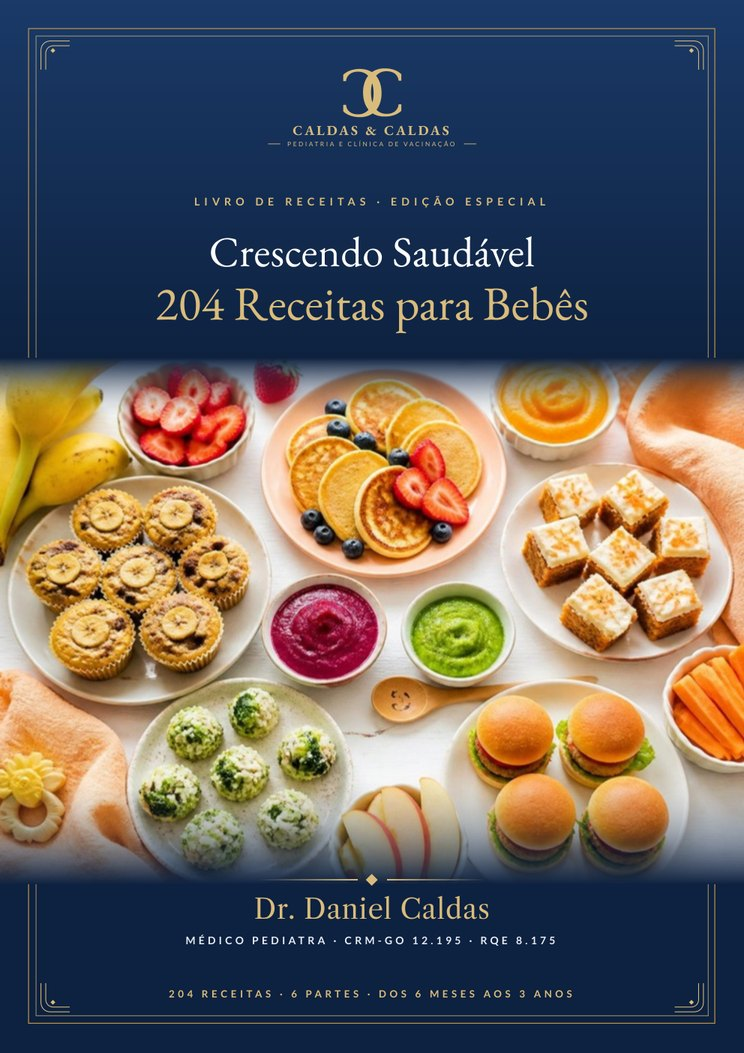
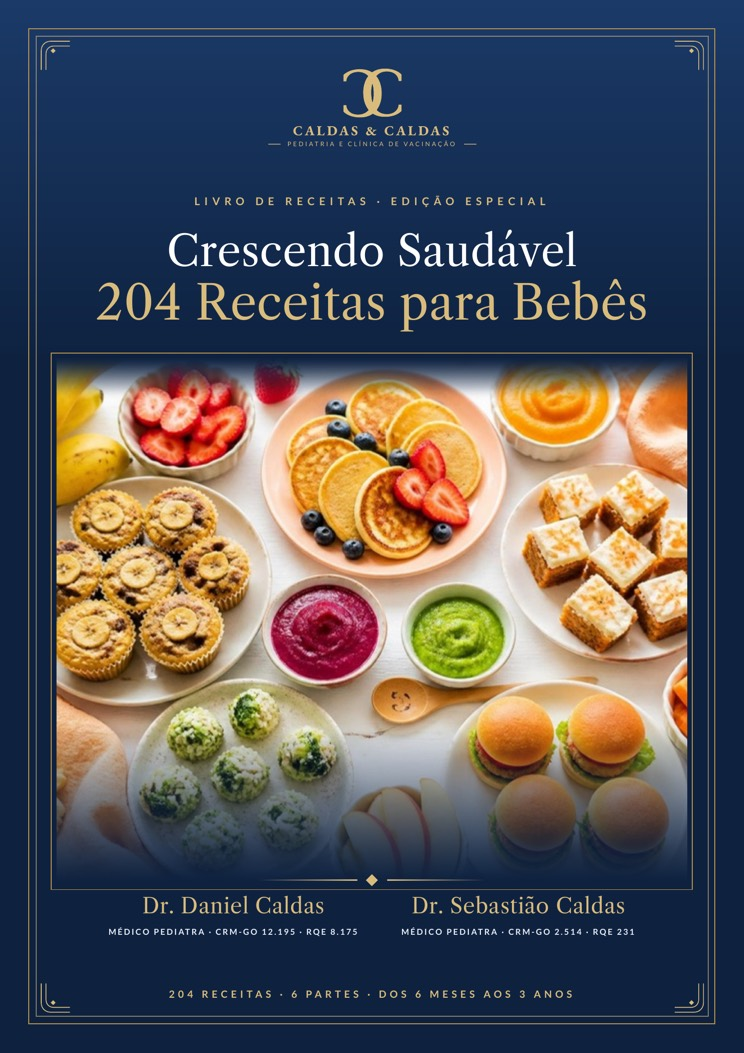
Atualiza pagina de vendas: foto dos medicos, carrossel e novas capas
- Adiciona a foto dos Drs. Caldas na secao "No consultorio" (img/drs-caldas-consultorio.webp)
- Exibe os materiais em carrossel no celular
- Troca as 7 capas pelas versoes com os dois autores e atualiza o cache para ?v=lx3

diff --git a/index.html b/index.html
@@ -77,6 +77,11 @@ section{padding:88px 0;position:relative}
 .balao li:first-child{border-top:1px solid var(--linha)}
 .perguntas p{color:var(--suave);margin-bottom:14px}
 .perguntas p b{color:var(--tx)}
+.foto-consultorio{margin:40px 9px 0;max-width:440px}
+.foto-consultorio .moldura{aspect-ratio:1/1;background:var(--nv);overflow:hidden;border:1px solid var(--ou2);outline:1px solid #E1D2B0;outline-offset:8px}
+.foto-consultorio img{display:block;width:100%;height:100%;object-fit:cover;object-position:50% 35%}
+.foto-consultorio figcaption{margin-top:20px;font-size:13px;line-height:1.4;color:var(--suave)}
+.foto-consultorio figcaption b{color:var(--nv);font-weight:700}
 
 /* kit */
 .grid-kit{display:flex;flex-wrap:wrap;gap:34px 26px}
@@ -152,6 +157,8 @@ footer p{margin:0;line-height:1.5}
   section{padding:64px 0}
   .hero{padding:52px 0 70px}
   .perguntas .wrap,.sobre .wrap{grid-template-columns:1fr;gap:36px}
+  .foto-consultorio{margin:28px 9px 0;max-width:420px}
+  .foto-consultorio .moldura{aspect-ratio:4/3}
   .grid-kit .item{width:calc(33.33% - 18px)}
   .autores{max-width:440px;width:100%;margin:0 auto}
   .topo .btn-mini{display:none}
@@ -177,6 +184,29 @@ footer p{margin:0;line-height:1.5}
   .medico{padding:5px 5px 12px}
   .medico b{font-size:14.5px}
   .medico small{font-size:11.5px}
+}
+/* kit: carrossel no celular (abaixo de 768px); no desktop/tablet a grade fica igual */
+.kit-nav{display:none}
+@media (max-width:767px){
+  .kit{--gut:20px}
+  .grid-kit{position:relative;flex-wrap:nowrap;gap:16px;overflow-x:auto;overscroll-behavior-x:contain;scroll-snap-type:x mandatory;scroll-padding:0 var(--gut);margin:0 calc(-1 * var(--gut));padding:4px var(--gut) 34px;scrollbar-width:none;-webkit-overflow-scrolling:touch;scroll-behavior:smooth}
+  .grid-kit::-webkit-scrollbar{display:none}
+  .grid-kit:focus-visible{outline:2px solid var(--ou);outline-offset:-2px}
+  .grid-kit .item{flex:0 0 82%;width:auto;max-width:330px;scroll-snap-align:start}
+  .item h3{font-size:18px}
+  .kit-nav:not([hidden]){display:flex;align-items:center;justify-content:center;gap:10px;margin-top:-10px}
+  .kit-dots{display:flex;align-items:center}
+  .kit-dots button{width:22px;height:32px;padding:0;border:0;background:none;cursor:pointer;display:flex;align-items:center;justify-content:center}
+  .kit-dots button:before{content:"";display:block;width:8px;height:8px;border-radius:50%;background:#D5DAE3;transition:background .2s,transform .2s}
+  .kit-dots button[aria-current="true"]:before{background:var(--ou);transform:scale(1.35)}
+  .kit-seta{width:34px;height:34px;border-radius:50%;border:1px solid #E1D2B0;background:#fff;color:var(--nv);font-size:22px;line-height:1;padding:0 0 3px;cursor:pointer;display:flex;align-items:center;justify-content:center}
+  .kit-seta:disabled{opacity:.35;cursor:default}
+  .kit-dots button:focus-visible,.kit-seta:focus-visible{outline:2px solid var(--ou);outline-offset:2px;border-radius:50%}
+}
+@media (max-width:560px){.kit{--gut:16px}}
+@media (prefers-reduced-motion:reduce){
+  .grid-kit{scroll-behavior:auto}
+  .kit-dots button:before{transition:none}
 }
 </style>
 </head>
@@ -400,6 +430,10 @@ c7 -18 21 -72 30 -120 9 -48 29 -126 46 -174 16 -49 39 -139 50 -201 11 -62
     <div>
       <span class="rotulo">No consultório</span>
       <h2>O que os pais mais nos perguntam quando o bebê faz 6 meses</h2>
+      <figure class="foto-consultorio">
+        <div class="moldura"><img src="img/drs-caldas-consultorio.webp" alt="Dr. Sebastião Caldas, à esquerda, e Dr. Daniel Caldas, à direita, pediatras, abraçados e sorrindo no consultório de parede azul da Caldas &amp; Caldas" width="800" height="800" loading="lazy"></div>
+        <figcaption><b>Dr. Sebastião Caldas e Dr. Daniel Caldas</b> · Pediatras</figcaption>
+      </figure>
     </div>
     <div>
       <ul class="balao">
@@ -422,14 +456,19 @@ c7 -18 21 -72 30 -120 9 -48 29 -126 46 -174 16 -49 39 -139 50 -201 11 -62
     <span class="rotulo">Junto com o livro</span>
     <h2>Receitas e guias para o dia a dia</h2>
     <p class="lead">O livro explica o porquê. Estes materiais resolvem o “o que eu faço hoje no almoço”.</p>
-    <div class="grid-kit">
-      <div class="item"><div class="capa"><img src="img/calendario.jpg?v=lx2" alt="Capa: Calendário de Receitas" loading="lazy"></div><h3>Calendário de Receitas</h3><p>O que oferecer em cada semana</p><span class="pg">111 páginas</span></div>
-      <div class="item"><div class="capa"><img src="img/receitas.jpg?v=lx2" alt="Capa: Crescendo Saudável" loading="lazy"></div><h3>Crescendo Saudável</h3><p>204 receitas para bebês de 6 meses a 3 anos</p><span class="pg">137 páginas</span></div>
-      <div class="item"><div class="capa"><img src="img/blw.jpg?v=lx2" alt="Capa: Cortes Seguros no BLW" loading="lazy"></div><h3>Cortes Seguros no BLW</h3><p>Como cortar cada alimento em cada idade</p><span class="pg">Guia</span></div>
-      <div class="item"><div class="capa"><img src="img/congela.jpg?v=lx2" alt="Capa: Congelamento Prático" loading="lazy"></div><h3>Congelamento Prático</h3><p>Prepare a semana e ganhe tempo</p><span class="pg">Guia</span></div>
-      <div class="item"><div class="capa"><img src="img/temperos.jpg?v=lx2" alt="Capa: Temperos Seguros" loading="lazy"></div><h3>Temperos Seguros</h3><p>Sabor de verdade, sem sal antes de 1 ano</p><span class="pg">Guia</span></div>
-      <div class="item"><div class="capa"><img src="img/sorvetes.jpg?v=lx2" alt="Capa: 20 Sorvetes para Bebês" loading="lazy"></div><h3>20 Sorvetes para Bebês</h3><p>Picolés de fruta sem açúcar</p><span class="pg">Receitas</span></div>
-      <div class="item"><div class="capa"><img src="img/bolinhos.jpg?v=lx2" alt="Capa: 20 Bolinhos para Bebês" loading="lazy"></div><h3>20 Bolinhos para Bebês</h3><p>Lanches práticos e saudáveis</p><span class="pg">Receitas</span></div>
+    <div class="grid-kit" id="kit-carrossel" role="region" aria-label="Materiais que acompanham o livro">
+      <div class="item"><div class="capa"><img src="img/calendario.jpg?v=lx3" alt="Capa: Calendário de Receitas" loading="lazy"></div><h3>Calendário de Receitas</h3><p>O que oferecer em cada semana</p><span class="pg">111 páginas</span></div>
+      <div class="item"><div class="capa"><img src="img/receitas.jpg?v=lx3" alt="Capa: Crescendo Saudável" loading="lazy"></div><h3>Crescendo Saudável</h3><p>204 receitas para bebês de 6 meses a 3 anos</p><span class="pg">137 páginas</span></div>
+      <div class="item"><div class="capa"><img src="img/blw.jpg?v=lx3" alt="Capa: Cortes Seguros no BLW" loading="lazy"></div><h3>Cortes Seguros no BLW</h3><p>Como cortar cada alimento em cada idade</p><span class="pg">Guia</span></div>
+      <div class="item"><div class="capa"><img src="img/congela.jpg?v=lx3" alt="Capa: Congelamento Prático" loading="lazy"></div><h3>Congelamento Prático</h3><p>Prepare a semana e ganhe tempo</p><span class="pg">Guia</span></div>
+      <div class="item"><div class="capa"><img src="img/temperos.jpg?v=lx3" alt="Capa: Temperos Seguros" loading="lazy"></div><h3>Temperos Seguros</h3><p>Sabor de verdade, sem sal antes de 1 ano</p><span class="pg">Guia</span></div>
+      <div class="item"><div class="capa"><img src="img/sorvetes.jpg?v=lx3" alt="Capa: 20 Sorvetes para Bebês" loading="lazy"></div><h3>20 Sorvetes para Bebês</h3><p>Picolés de fruta sem açúcar</p><span class="pg">Receitas</span></div>
+      <div class="item"><div class="capa"><img src="img/bolinhos.jpg?v=lx3" alt="Capa: 20 Bolinhos para Bebês" loading="lazy"></div><h3>20 Bolinhos para Bebês</h3><p>Lanches práticos e saudáveis</p><span class="pg">Receitas</span></div>
+    </div>
+    <div class="kit-nav" hidden>
+      <button type="button" class="kit-seta" data-dir="-1" aria-label="Material anterior" aria-controls="kit-carrossel">&#8249;</button>
+      <div class="kit-dots"></div>
+      <button type="button" class="kit-seta" data-dir="1" aria-label="Próximo material" aria-controls="kit-carrossel">&#8250;</button>
     </div>
   </div>
 </section>
@@ -700,6 +739,70 @@ c7 -18 21 -72 30 -120 9 -48 29 -126 46 -174 16 -49 39 -139 50 -201 11 -62
     barra.classList.toggle('oculto',vis.size>0);
   });
   alvos.forEach(function(el){if(el)io.observe(el)});
+})();
+</script>
+
+<script>
+/* carrossel dos materiais: só age abaixo de 768px */
+(function(){
+  var trilho=document.getElementById('kit-carrossel');
+  if(!trilho)return;
+  var nav=trilho.parentNode.querySelector('.kit-nav');
+  var dotsBox=nav.querySelector('.kit-dots');
+  var setas=nav.querySelectorAll('.kit-seta');
+  var itens=[].slice.call(trilho.querySelectorAll('.item'));
+  var mq=window.matchMedia('(max-width:767px)');
+  var rm=window.matchMedia('(prefers-reduced-motion: reduce)');
+  var atual=0, pendente=false, dots=[];
+  itens.forEach(function(it,i){
+    var nome=it.querySelector('h3').textContent;
+    var b=document.createElement('button');
+    b.type='button';
+    b.setAttribute('aria-label','Ir para o material '+(i+1)+' de '+itens.length+': '+nome);
+    b.setAttribute('aria-controls','kit-carrossel');
+    b.addEventListener('click',function(){ir(i)});
+    dotsBox.appendChild(b); dots.push(b);
+  });
+  function ir(i){
+    i=Math.max(0,Math.min(itens.length-1,i));
+    var pad=parseFloat(getComputedStyle(trilho).paddingLeft)||0;
+    trilho.scrollTo({left:itens[i].offsetLeft-pad,behavior:rm.matches?'auto':'smooth'});
+  }
+  function marcar(){
+    pendente=false;
+    var pad=parseFloat(getComputedStyle(trilho).paddingLeft)||0, x=trilho.scrollLeft, melhor=0, dist=Infinity;
+    itens.forEach(function(it,i){var d=Math.abs(it.offsetLeft-pad-x);if(d<dist){dist=d;melhor=i}});
+    if(x+trilho.clientWidth>=trilho.scrollWidth-2)melhor=itens.length-1;
+    atual=melhor;
+    dots.forEach(function(b,i){b.setAttribute('aria-current',i===atual?'true':'false')});
+    setas[0].disabled=atual===0;
+    setas[1].disabled=atual===itens.length-1;
+  }
+  trilho.addEventListener('scroll',function(){if(!pendente){pendente=true;requestAnimationFrame(marcar)}},{passive:true});
+  setas.forEach(function(s){s.addEventListener('click',function(){ir(atual+(+s.getAttribute('data-dir')))})});
+  trilho.addEventListener('keydown',function(e){
+    if(!mq.matches)return;
+    if(e.key==='ArrowRight'){e.preventDefault();ir(atual+1)}
+    else if(e.key==='ArrowLeft'){e.preventDefault();ir(atual-1)}
+    else if(e.key==='Home'){e.preventDefault();ir(0)}
+    else if(e.key==='End'){e.preventDefault();ir(itens.length-1)}
+  });
+  function modo(){
+    var cel=mq.matches;
+    nav.hidden=!cel;
+    if(cel){
+      trilho.setAttribute('tabindex','0');
+      trilho.setAttribute('aria-roledescription','carrossel');
+      itens.forEach(function(it,i){it.setAttribute('role','group');it.setAttribute('aria-roledescription','slide');it.setAttribute('aria-label',(i+1)+' de '+itens.length)});
+      marcar();
+    }else{
+      trilho.removeAttribute('tabindex');
+      trilho.removeAttribute('aria-roledescription');
+      itens.forEach(function(it){it.removeAttribute('role');it.removeAttribute('aria-roledescription');it.removeAttribute('aria-label')});
+    }
+  }
+  if(mq.addEventListener)mq.addEventListener('change',modo);else if(mq.addListener)mq.addListener(modo);
+  modo();
 })();
 </script>
 
